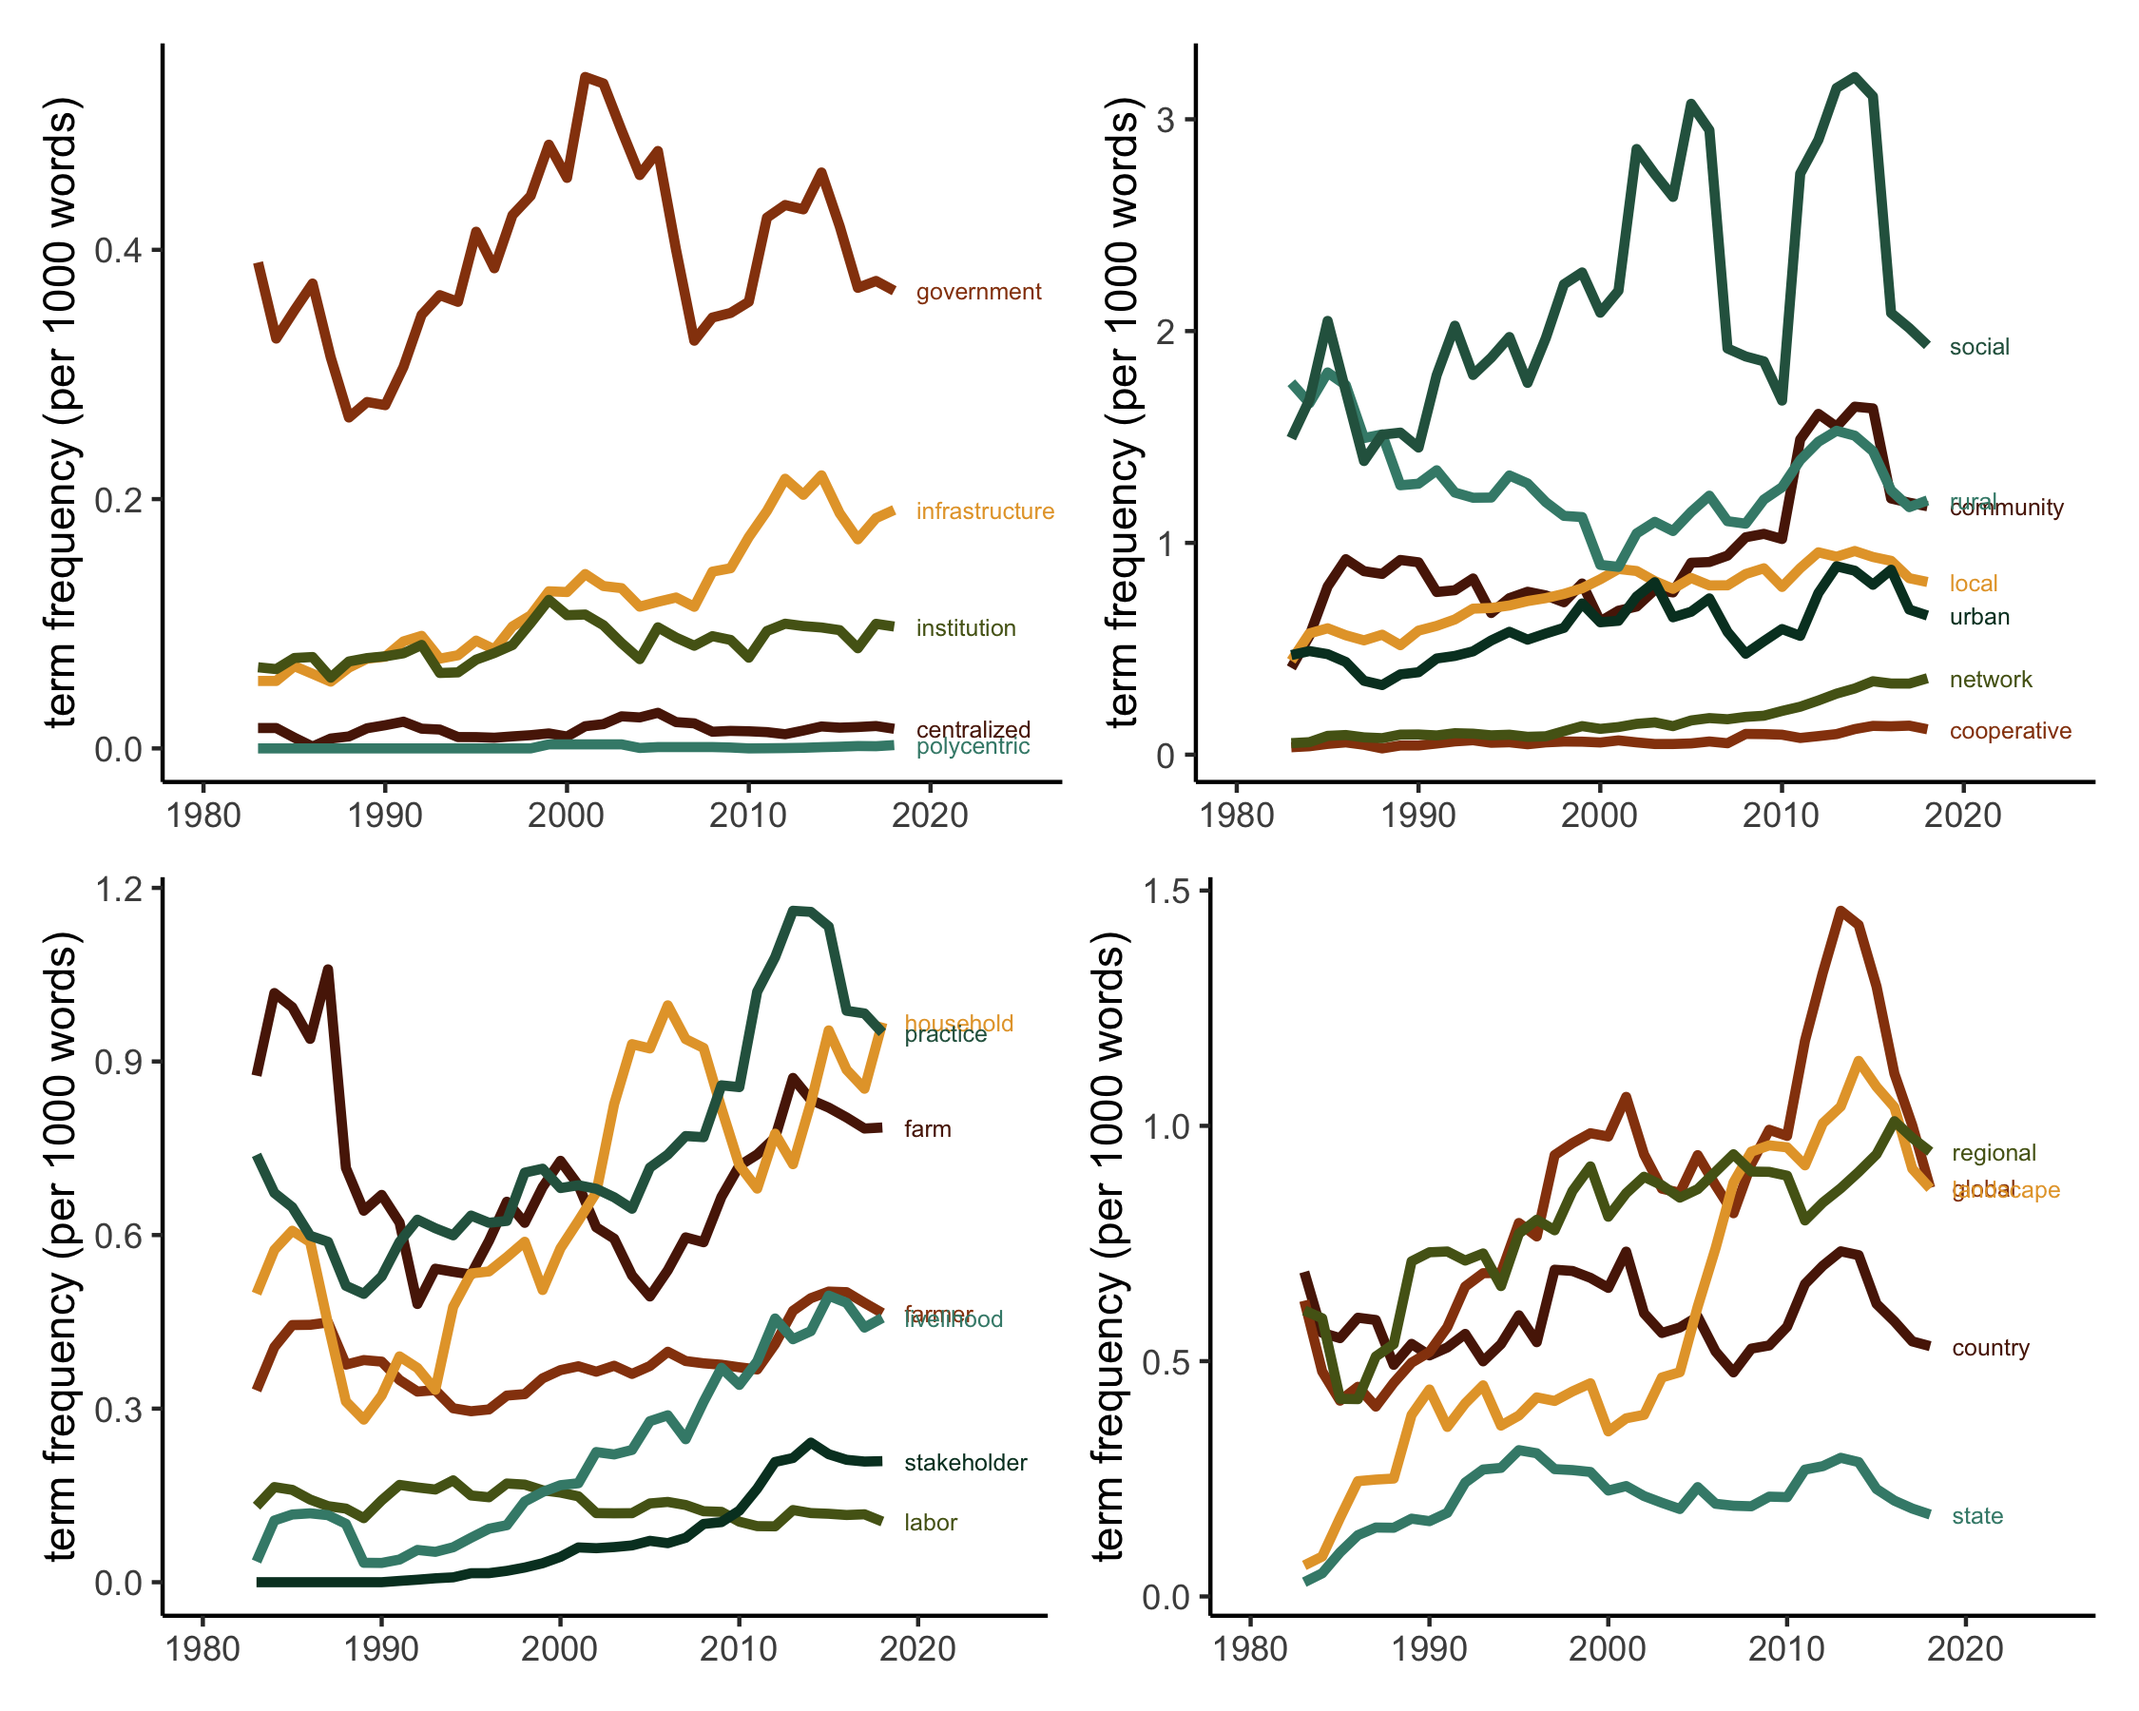
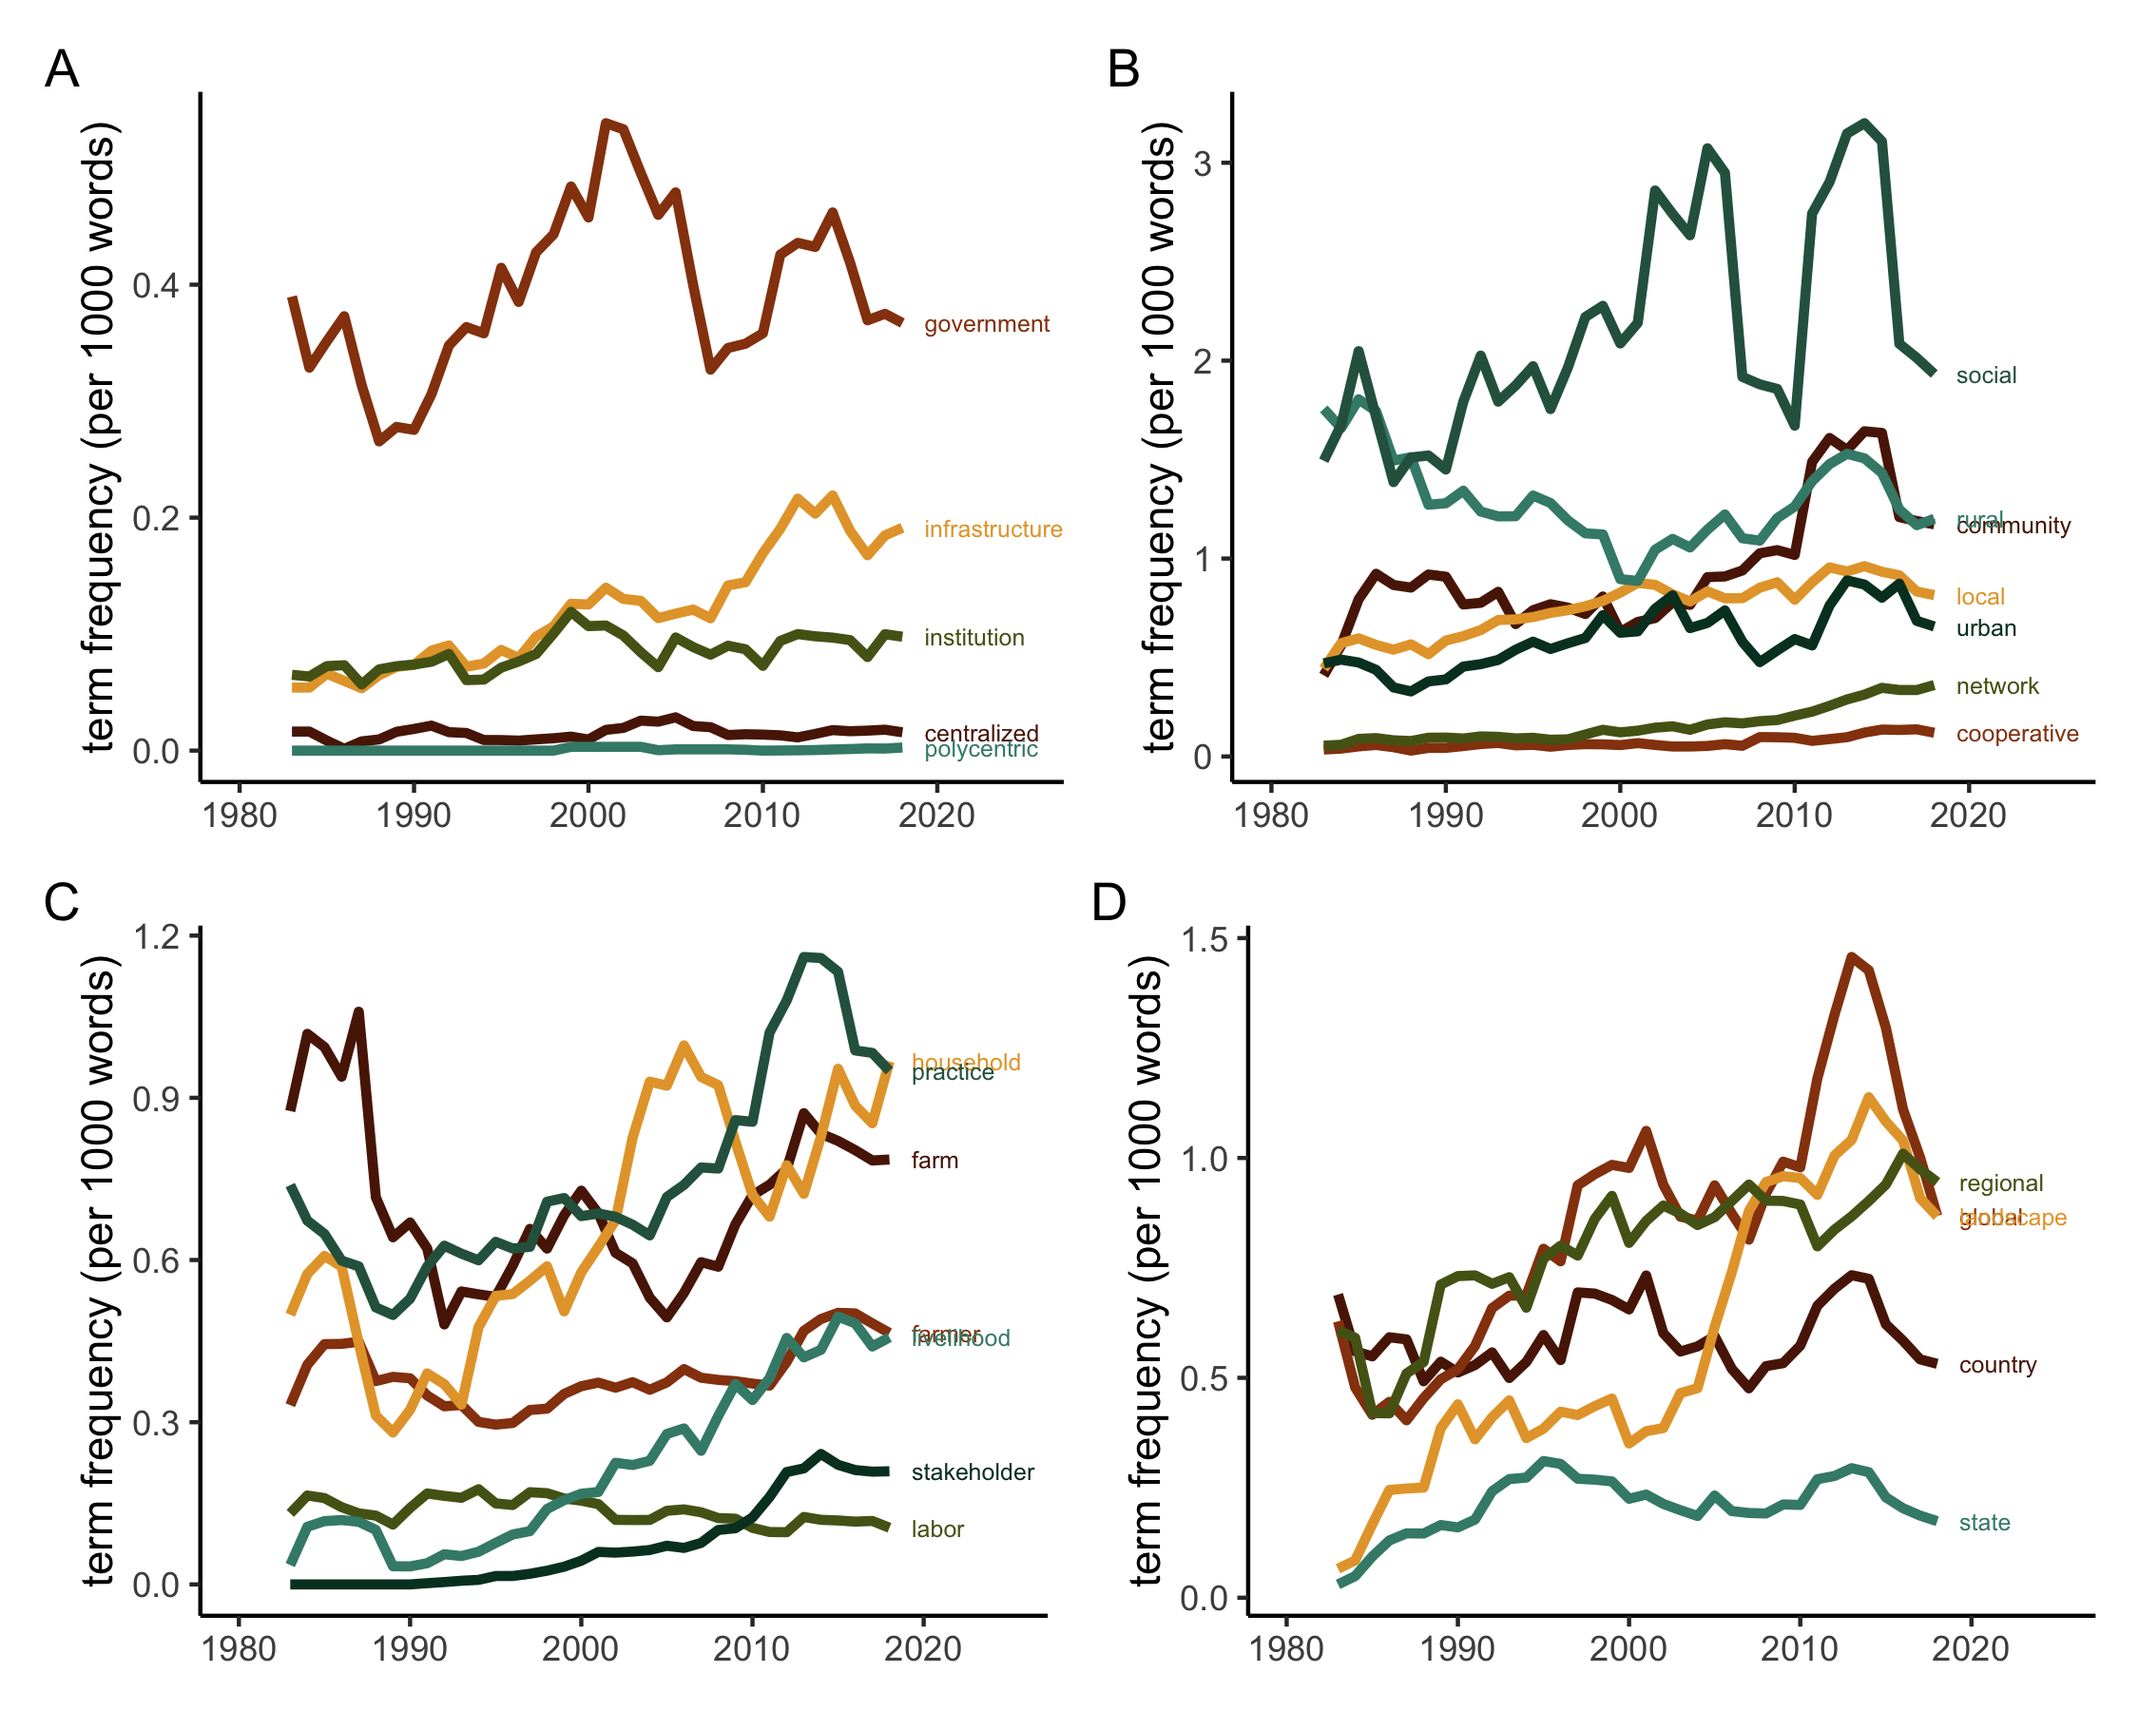
figure updates

diff --git a/scripts/analysis.md b/scripts/analysis.md
@@ -152,7 +152,7 @@ b <- df_aggregate %>%
 
 ``` r
 library(patchwork)
-a+b
+a+b+plot_annotation(tag_levels = 'A')
 ```
 
     ## Warning: Removed 28 row(s) containing missing values (geom_path).
@@ -299,7 +299,7 @@ d <- df_aggregate %>%
 
 ``` r
 library(patchwork)
-(c+a)/(b+d)
+(c+a)/(b+d) + plot_annotation(tag_levels = 'A')
 ```
 
     ## Warning: Removed 20 row(s) containing missing values (geom_path).
@@ -406,7 +406,7 @@ c <- df_aggregate %>%
 
 ``` r
 library(patchwork)
-(a+b+c)
+(a+b+c) + plot_annotation(tag_levels = 'A') + plot_layout(nrow = 2, ncol = 2,  byrow = FALSE)
 ```
 
     ## Warning: Removed 20 row(s) containing missing values (geom_path).
@@ -509,7 +509,7 @@ c <- df_aggregate %>%
 
 ``` r
 library(patchwork)
-(a+b+c)
+(a+b+c) + plot_annotation(tag_levels = 'A')+  plot_layout(ncol = 2, byrow = FALSE)
 ```
 
     ## Warning: Removed 12 row(s) containing missing values (geom_path).
@@ -647,4 +647,120 @@ a %>% left_join(b) %>%
 
     ## Joining, by = c("terms", "theme")
 
-![](analysis_files/figure-gfm/fig4b-1.png)<!-- -->
+![](analysis_files/figure-gfm/fig5b-1.png)<!-- -->
+
+clean data frame
+
+``` r
+df <- read_csv("../data/output/search-descriptive-reports2.csv")
+```
+
+    ## New names:
+    ## Rows: 647 Columns: 267
+    ## ── Column specification
+    ## ──────────────────────────────────────────────────────── Delimiter: "," dbl
+    ## (266): yr, total_words, NDC, NDCs, IPCC, agreements, agreement, climate,... lgl
+    ## (1): title
+    ## ℹ Use `spec()` to retrieve the full column specification for this data. ℹ
+    ## Specify the column types or set `show_col_types = FALSE` to quiet this message.
+    ## • `state` -> `state...55`
+    ## • `state` -> `state...56`
+    ## • `regional` -> `regional...62`
+    ## • `regional` -> `regional...63`
+    ## • `colonial` -> `colonial...148`
+    ## • `colonial` -> `colonial...182`
+    ## • `intercropping` -> `intercropping...236`
+    ## • `intercropping` -> `intercropping...237`
+
+``` r
+df <- df %>%
+  select(-c(title)) %>%
+  mutate(ID = 1:nrow(df)) %>%
+  filter(agroforestry>0)
+
+df_aggregate_reports <- df %>%
+  filter(agroforestry>quantile(df$agroforestry,0.25)) %>%
+  pivot_longer(-c(yr, total_words)) %>%
+  rename(subterm = name) %>%
+  left_join(themes) %>%
+  group_by(yr, theme) %>%
+  summarize(total_words = sum(total_words),
+            value = sum(value)) %>% ungroup()
+```
+
+    ## Joining, by = "subterm"
+    ## `summarise()` has grouped output by 'yr'. You can override using the `.groups`
+    ## argument.
+
+``` r
+df_aggregate_f4 <- df_aggregate %>%
+  group_by(yr, theme) %>%
+  summarise(count = sum(value),
+            total_words = sum(total_words)) %>%
+  mutate(TF_academic = count/total_words*1000) %>%
+  select(yr, theme, TF_academic) %>%
+  filter(yr >1980 & yr<2021)
+```
+
+    ## `summarise()` has grouped output by 'yr'. You can override using the `.groups`
+    ## argument.
+
+``` r
+a <- df_aggregate_reports %>%
+  group_by(yr, theme) %>%
+  summarise(count = sum(value),
+            total_words = sum(total_words)) %>%
+  mutate(TF_reports = count/total_words*1000) %>%
+  filter(yr >1980 & yr<2021) %>% select(yr, theme, TF_reports) %>%
+  left_join(df_aggregate_f4) %>% 
+  mutate_all(~replace(., . == 0, NA)) %>%
+  mutate(rel_frequency = (TF_reports-TF_academic)/TF_reports) %>%
+  group_by(theme) %>% 
+  summarise(rel_frequency = mean(rel_frequency, na.rm = TRUE)) %>% 
+  drop_na() 
+```
+
+    ## `summarise()` has grouped output by 'yr'. You can override using the `.groups`
+    ## argument.
+    ## Joining, by = c("yr", "theme")
+    ## `mutate_all()` ignored the following grouping variables:
+
+``` r
+b <- df_aggregate_reports %>%
+  group_by(yr, theme) %>%
+  summarise(count = sum(value),
+            total_words = sum(total_words)) %>%
+  mutate(TF_reports = count/total_words*1000) %>%
+  filter(yr >1980 & yr<2021) %>% select(yr,  theme, TF_reports) %>%
+  left_join(df_aggregate_f4) %>% 
+  filter(yr >2010) %>%
+  mutate_all(~replace(., . == 0, NA)) %>%
+  mutate(rel_frequency = (TF_reports-TF_academic)/TF_reports) %>%
+  group_by(theme) %>% 
+  summarise(rel_frequency_2010 = mean(rel_frequency, na.rm = TRUE)) %>% 
+  drop_na()
+```
+
+    ## `summarise()` has grouped output by 'yr'. You can override using the `.groups`
+    ## argument.
+    ## Joining, by = c("yr", "theme")
+    ## `mutate_all()` ignored the following grouping variables:
+
+``` r
+a %>% left_join(b) %>% drop_na() %>%
+  pivot_longer(!theme, names_to = "date", values_to = "rel_frequency") %>%
+  mutate(color = 
+           ifelse(date == "rel_frequency_2010" & rel_frequency >0, "More common in reports (2010 onwards)",
+                  ifelse(date == "rel_frequency_2010" & rel_frequency <=0, "More common in academic (2010 onwards)",
+                     ifelse(date != "rel_frequency_2010" & rel_frequency >0, "More common in reports overall","More common in academic")))) %>%
+  ggplot(aes(x=reorder(theme,rel_frequency) , y = rel_frequency, fill = color)) + geom_col(position = "dodge", width = 0.7) +
+  theme_classic() + theme(legend.position = "none", legend.title = element_blank(), legend.text = element_text(size = 7))+      
+  #scale_fill_manual(values = c("#a2d9ce ","#0e6251",  "#78281f", "#f1948a")) + 
+  geom_hline(yintercept = 0, linetype = "dashed") +
+  labs(y = "relative term frequency") +
+  coord_flip()  + theme(axis.title.y = element_blank())
+```
+
+    ## Joining, by = "theme"
+
+![](analysis_files/figure-gfm/fig6-1.png)<!-- -->
